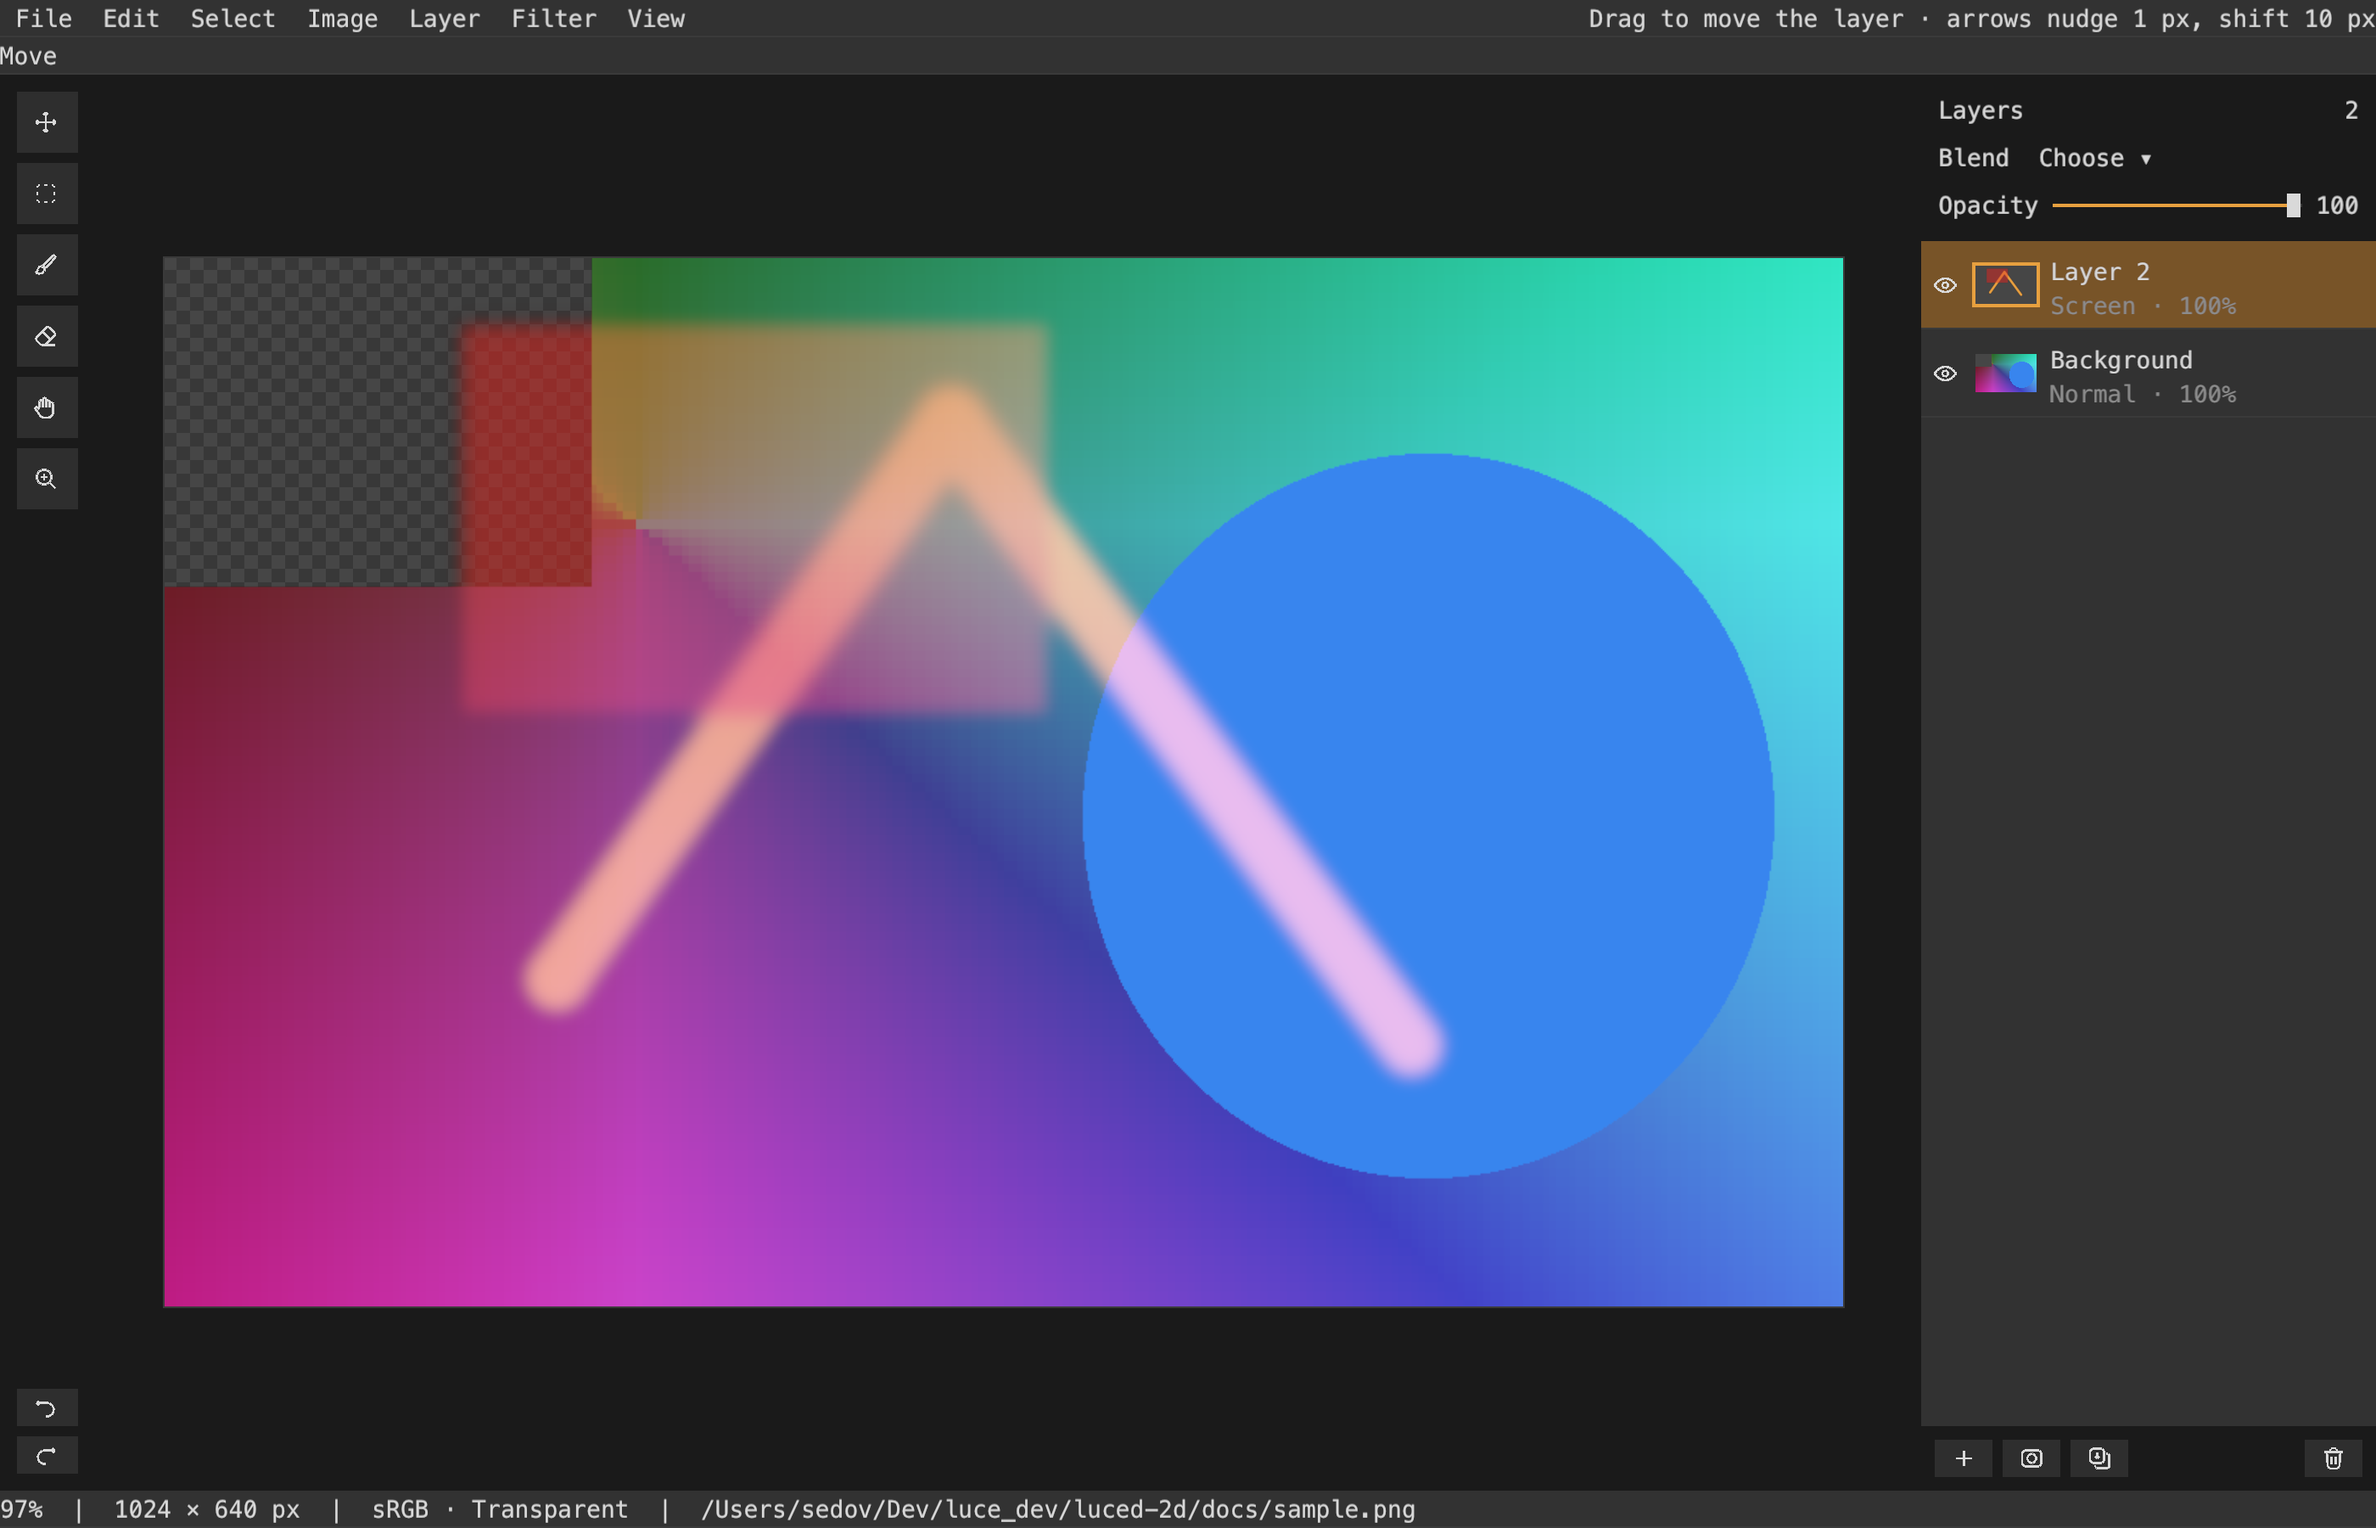
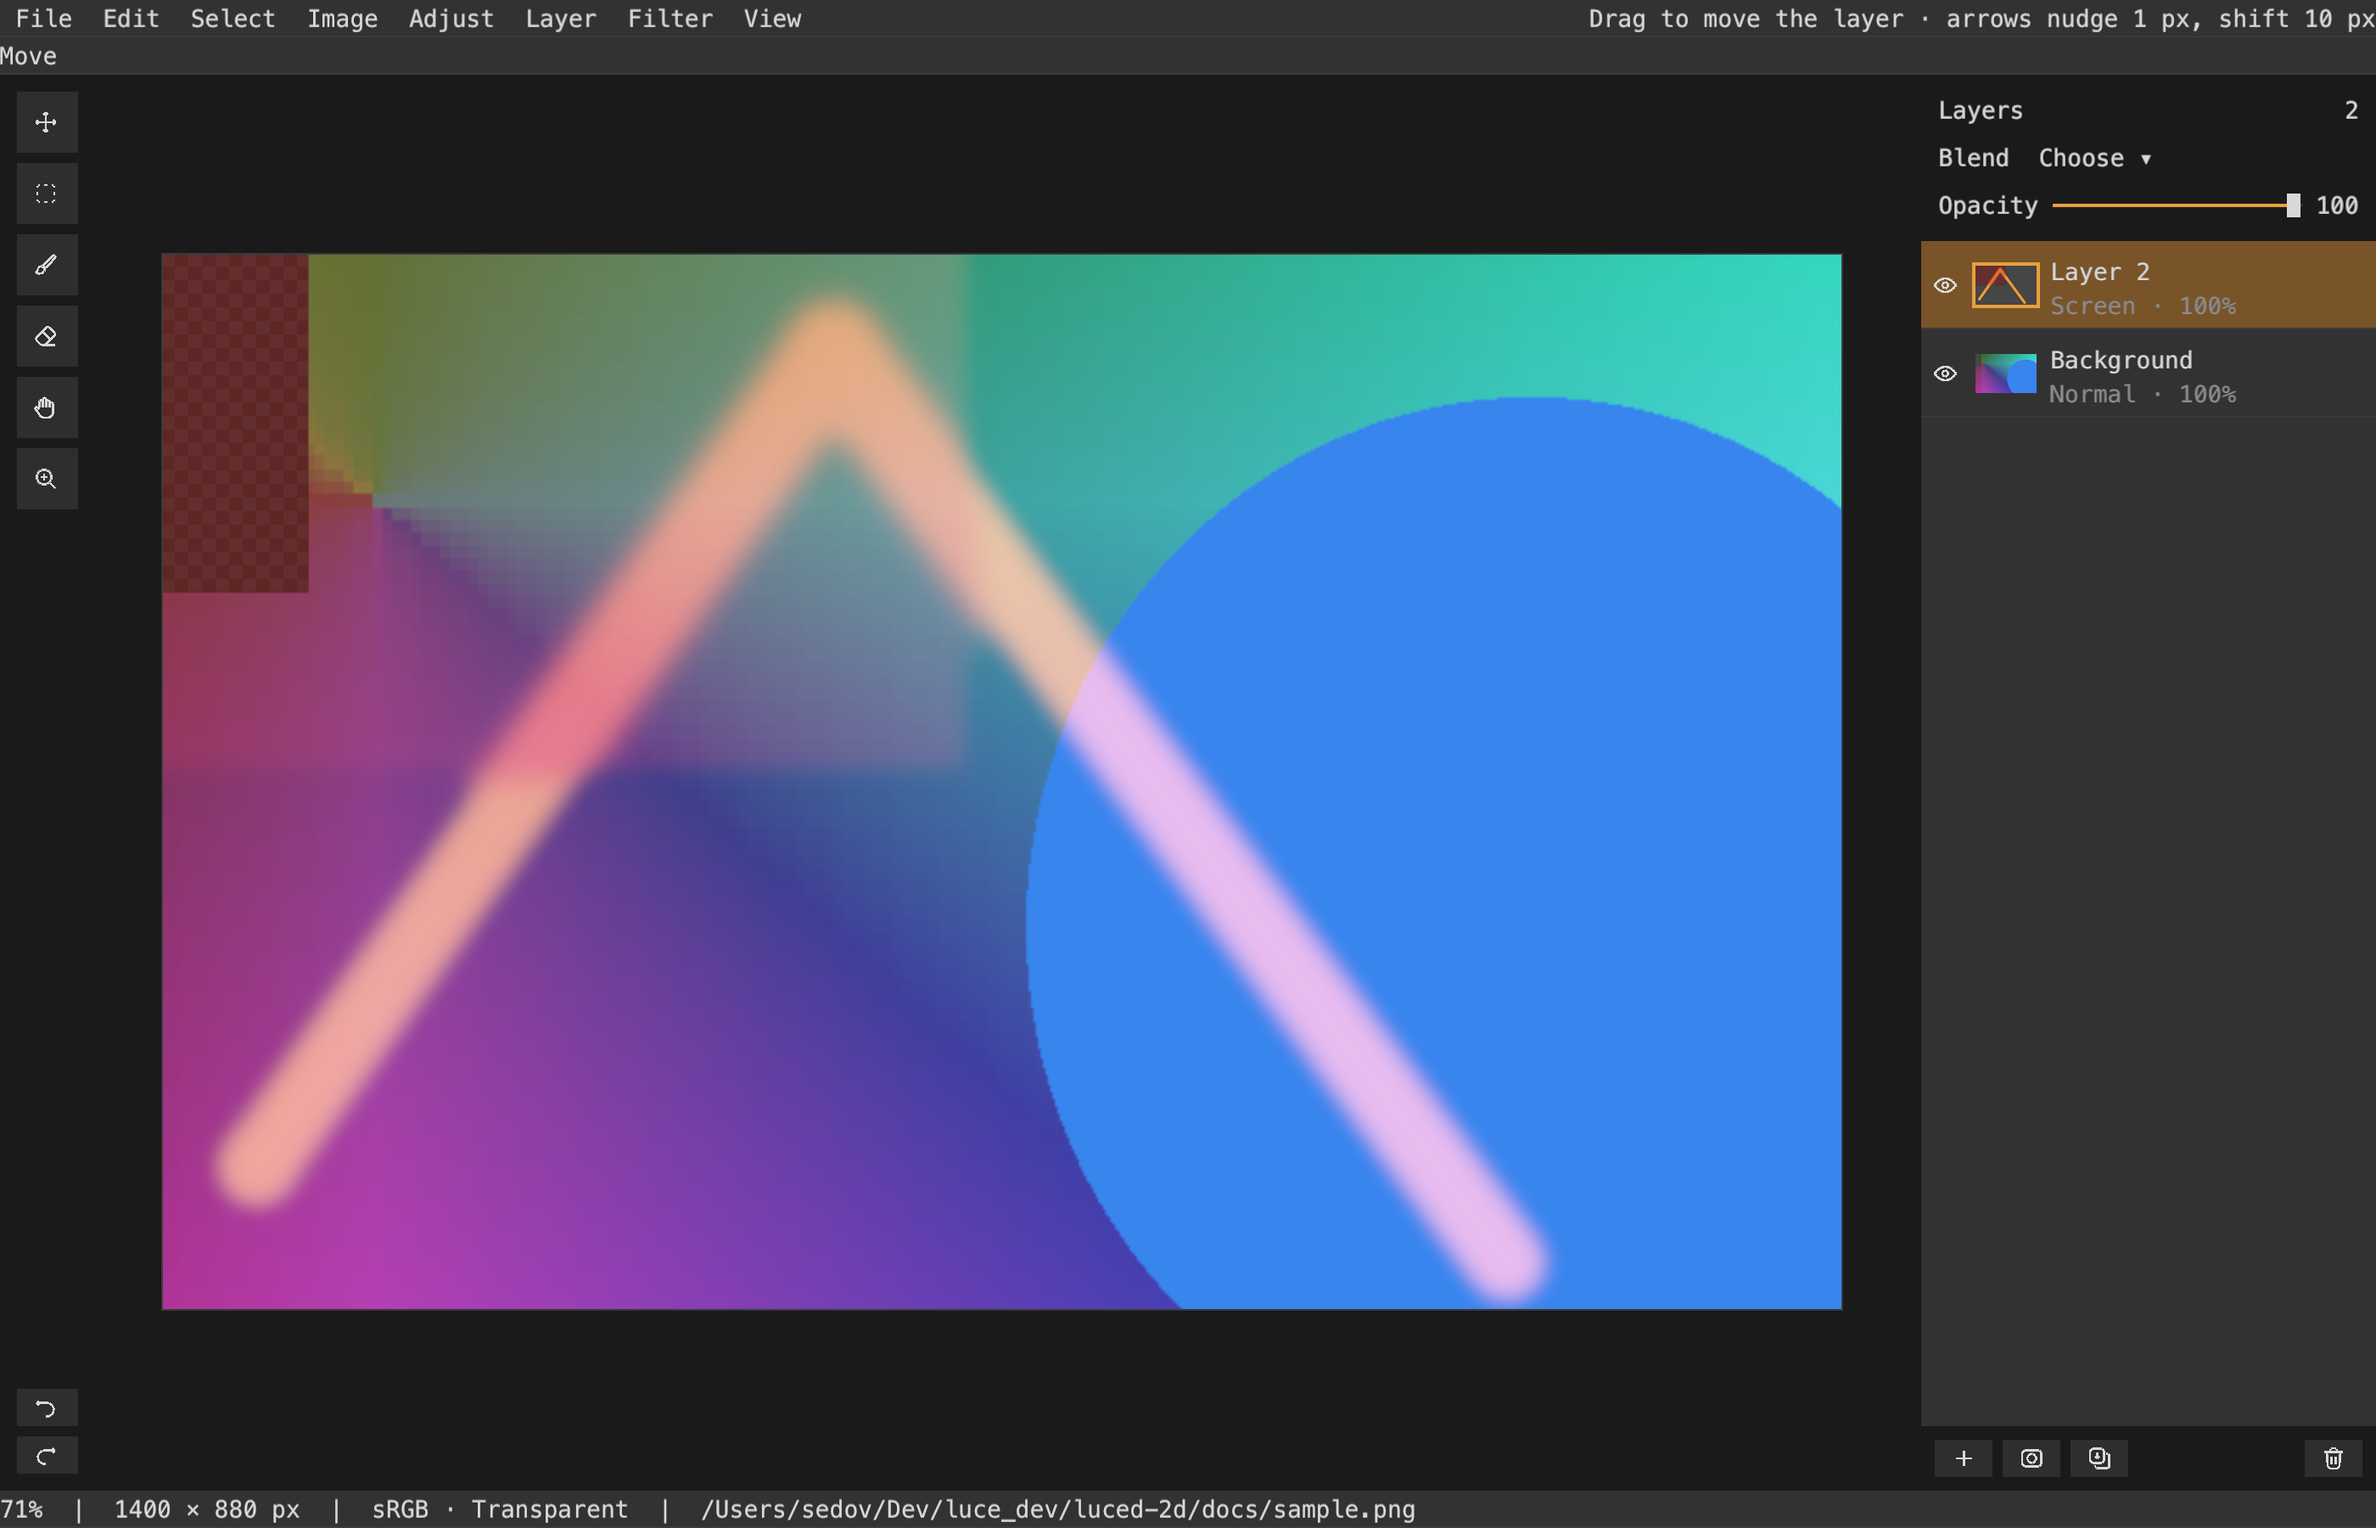
The .l2d document package: layers, masks and appearance in a prisma manifest
Canvas.save_package writes document.prisma plus one PNG per layer and mask;
Canvas.open reads an .l2d back. luce-image now depends on luce-prism, and
its CI checks out luce-prism, luce-crypto and luce-tls at pinned revisions.

Claude-Session: https://claude.ai/code/session_01KSvf935cywg8wGYHPcyZf9

diff --git a/tools/preview.py b/tools/preview.py
@@ -100,6 +100,9 @@ pub func main(arguments: list[str]) -> int!:
             editor.workspace.deselect()
             editor.workspace.blur(6.0)
             editor.workspace.move_layer(60, -40)
+            editor.workspace.canvas.select(200, 60, 700, 440)
+            editor.workspace.crop()
+            editor.workspace.resize_image(1400, 880)
             editor.workspace.choose_tool("move")
             editor.panels.refresh()
         if captured:
